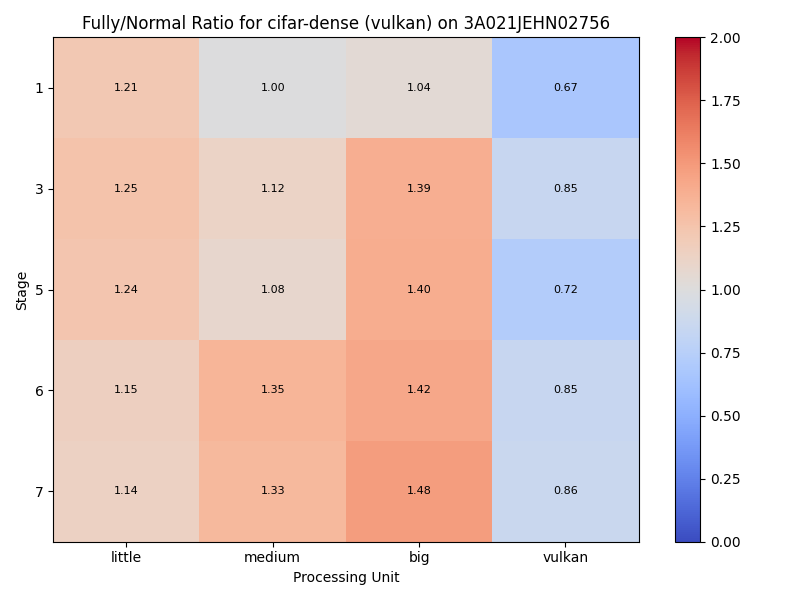
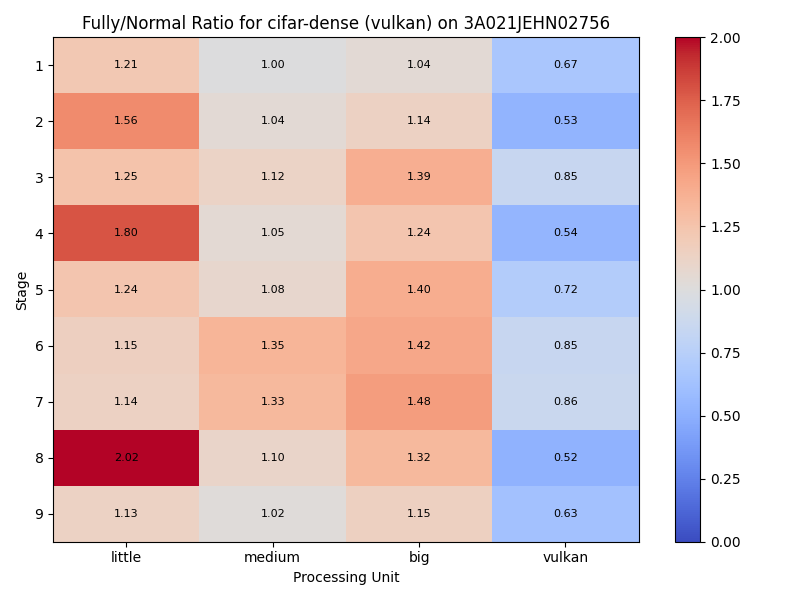
s

diff --git a/scripts/paper/figure_8_make_heatmap_all.py b/scripts/paper/figure_8_make_heatmap_all.py
@@ -1,0 +1,264 @@
+#!/usr/bin/env python3
+import os
+import argparse
+import pandas as pd
+import numpy as np
+import matplotlib.pyplot as plt
+import sys
+
+# Map backend flag to CSV column name
+BACKEND_COL_MAP = {
+    "vk": "vulkan",
+    "cu": "cuda",
+}
+
+
+def get_available_cores(df, backend_col):
+    """Get list of available cores from the DataFrame by checking for non-zero values."""
+    all_cores = ["little", "medium", "big", backend_col]
+    available_cores = []
+    for core in all_cores:
+        if core in df.columns and not df[core].eq(0).all():
+            available_cores.append(core)
+    return available_cores
+
+
+def aggregate_data(df, value_cols):
+    """
+    Group the DataFrame by 'stage' and compute mean and std for the specified columns.
+    Returns three DataFrames: mean, std, cv (coefficient of variation).
+    """
+    group = df.groupby("stage")
+    mean_df = group[value_cols].mean()
+    std_df = group[value_cols].std()
+    cv_df = std_df.divide(mean_df).fillna(0)
+    return mean_df, std_df, cv_df
+
+
+def plot_bar_chart(
+    mean_normal, std_normal, mean_fully, std_fully, device, out_folder, app, backend_col
+):
+    available_cores = mean_normal.columns.tolist()
+    stages = mean_normal.index.astype(int).tolist()
+    x = np.arange(len(stages))
+    width = 0.2
+
+    fig, axs = plt.subplots(1, 2, figsize=(14, 6), sharey=True)
+    titles = ["Normal Benchmark", "Fully Benchmark"]
+    data_pairs = [(mean_normal, std_normal), (mean_fully, std_fully)]
+
+    for ax, (mean_df, std_df), title in zip(axs, data_pairs, titles):
+        for i, pu in enumerate(available_cores):
+            pos = x - (1.5 * width) + i * width
+            ax.bar(pos, mean_df[pu], width, yerr=std_df[pu], capsize=5, label=pu)
+        ax.set_xticks(x)
+        ax.set_xticklabels(stages)
+        ax.set_xlabel("Stage")
+        ax.set_title(title)
+        ax.legend()
+
+    axs[0].set_ylabel("Performance (ms per task)")
+    plt.suptitle(f"Benchmark Performance for {app} ({backend_col}) on {device}")
+    plt.tight_layout(rect=[0, 0, 1, 0.95])
+    outpath = os.path.join(out_folder, f"{device}_{app}_{backend_col}_bar_chart.png")
+    plt.savefig(outpath)
+    plt.close()
+    print(f"Saved bar chart: {outpath}")
+
+
+def plot_heatmap(diff_df, device, out_folder, app, backend_col):
+    available_cores = diff_df.columns.tolist()
+    fig, ax = plt.subplots(figsize=(8, 6))
+    cax = ax.imshow(diff_df.values, cmap="coolwarm", aspect="auto")
+    ax.set_xticks(np.arange(len(available_cores)))
+    ax.set_xticklabels(available_cores)
+    ax.set_yticks(np.arange(len(diff_df.index)))
+    ax.set_yticklabels(diff_df.index.astype(str))
+    ax.set_xlabel("Processing Unit")
+    ax.set_ylabel("Stage")
+    ax.set_title(f"Fully - Normal Diff for {app} ({backend_col}) on {device}")
+
+    for i in range(diff_df.shape[0]):
+        for j in range(diff_df.shape[1]):
+            val = diff_df.iat[i, j]
+            ax.text(j, i, f"{val:.2f}", ha="center", va="center", fontsize=8)
+
+    fig.colorbar(cax, ax=ax)
+    plt.tight_layout()
+    outpath = os.path.join(out_folder, f"{device}_{app}_{backend_col}_heatmap.png")
+    plt.savefig(outpath)
+    plt.close()
+    print(f"Saved heatmap: {outpath}")
+
+
+def plot_ratio_heatmap(ratio_df, device, out_folder, app, backend_col):
+    available_cores = ratio_df.columns.tolist()
+    fig, ax = plt.subplots(figsize=(8, 6))
+    cax = ax.imshow(ratio_df.values, cmap="coolwarm", aspect="auto", vmin=0, vmax=2)
+    ax.set_xticks(np.arange(len(available_cores)))
+    ax.set_xticklabels(available_cores)
+    ax.set_yticks(np.arange(len(ratio_df.index)))
+    ax.set_yticklabels(ratio_df.index.astype(str))
+    ax.set_xlabel("Processing Unit")
+    ax.set_ylabel("Stage")
+    ax.set_title(f"Fully/Normal Ratio for {app} ({backend_col}) on {device}")
+
+    for i in range(ratio_df.shape[0]):
+        for j in range(ratio_df.shape[1]):
+            val = ratio_df.iat[i, j]
+            ax.text(j, i, f"{val:.2f}", ha="center", va="center", fontsize=8)
+
+    fig.colorbar(cax, ax=ax)
+    plt.tight_layout()
+    outpath = os.path.join(out_folder, f"{device}_{app}_{backend_col}_ratio.png")
+    plt.savefig(outpath)
+    plt.close()
+    print(f"Saved ratio heatmap: {outpath}")
+
+
+def process_data_pair(folder_root, device, app, backend, exclude_stages=None):
+    """Process a single device-app-backend pair and return the ratio DataFrame."""
+    backend_col = BACKEND_COL_MAP[backend]
+    device_folder = os.path.join(folder_root, device, app, backend)
+
+    if not os.path.isdir(device_folder):
+        print(f"Warning: Folder {device_folder} does not exist.")
+        return None, None
+
+    normal_csv = os.path.join(device_folder, "normal.csv")
+    fully_csv = os.path.join(device_folder, "fully.csv")
+
+    if not os.path.exists(normal_csv) or not os.path.exists(fully_csv):
+        print(f"Warning: CSV files not found in {device_folder}")
+        return None, None
+
+    try:
+        df_normal = pd.read_csv(normal_csv)
+        df_fully = pd.read_csv(fully_csv)
+
+        # Get available cores from the data
+        available_cores = get_available_cores(df_normal, backend_col)
+
+        mean_n, _, _ = aggregate_data(df_normal, available_cores)
+        mean_f, _, _ = aggregate_data(df_fully, available_cores)
+
+        if exclude_stages:
+            idx = mean_n.index.astype(int)
+            mask = ~idx.isin(exclude_stages)
+            mean_n, mean_f = mean_n[mask], mean_f[mask]
+
+        # Calculate ratio
+        ratio = mean_f.divide(mean_n)
+
+        # Generate individual ratio heatmap for records
+        plot_ratio_heatmap(ratio, device, device_folder, app, backend_col)
+
+        return ratio, f"{device}\n{app}\n{backend_col}"
+
+    except Exception as e:
+        print(f"Error processing {device}/{app}/{backend}: {str(e)}")
+        return None, None
+
+
+def plot_combined_ratio_heatmaps(ratios, titles, out_folder):
+    """Create a 2x3 grid of ratio heatmaps."""
+    fig, axs = plt.subplots(2, 3, figsize=(18, 12))
+    axs = axs.flatten()
+
+    for i, (ratio_df, title) in enumerate(zip(ratios, titles)):
+        if ratio_df is None:
+            axs[i].text(
+                0.5, 0.5, f"No data for\n{title}", ha="center", va="center", fontsize=12
+            )
+            axs[i].axis("off")
+            continue
+
+        available_cores = ratio_df.columns.tolist()
+        im = axs[i].imshow(
+            ratio_df.values, cmap="coolwarm", aspect="auto", vmin=0, vmax=2
+        )
+
+        axs[i].set_xticks(np.arange(len(available_cores)))
+        axs[i].set_xticklabels(available_cores, rotation=45, ha="right")
+        axs[i].set_yticks(np.arange(len(ratio_df.index)))
+        axs[i].set_yticklabels(ratio_df.index.astype(str))
+
+        axs[i].set_title(title)
+
+        # Add text annotations
+        for y in range(ratio_df.shape[0]):
+            for x in range(ratio_df.shape[1]):
+                val = ratio_df.iat[y, x]
+                axs[i].text(x, y, f"{val:.2f}", ha="center", va="center", fontsize=7)
+
+    # Add a colorbar to the figure
+    fig.subplots_adjust(right=0.9)
+    cbar_ax = fig.add_axes([0.92, 0.15, 0.02, 0.7])
+    cbar = fig.colorbar(im, cax=cbar_ax)
+    cbar.set_label("Fully/Normal Ratio")
+
+    plt.suptitle("Fully/Normal Execution Time Ratio Comparison", fontsize=16)
+    plt.tight_layout(rect=[0, 0, 0.9, 0.95])
+
+    outpath = os.path.join(out_folder, "combined_ratio_heatmaps.png")
+    plt.savefig(outpath, dpi=300)
+    plt.close()
+    print(f"Saved combined ratio heatmaps: {outpath}")
+
+
+def main():
+    parser = argparse.ArgumentParser(
+        description="Analyze benchmark CSVs and generate figures."
+    )
+    parser.add_argument("--log_folder", required=True, help="Root folder with CSVs")
+    parser.add_argument(
+        "--exclude_stages", default="", help="Comma-separated stages to exclude"
+    )
+    parser.add_argument("--app", help="Application name (required with --individual)")
+    parser.add_argument(
+        "--backend",
+        choices=BACKEND_COL_MAP.keys(),
+        help="Backend (required with --individual)",
+    )
+    parser.add_argument(
+        "--device", help="Device identifier (required with --individual)"
+    )
+
+    args = parser.parse_args()
+
+    folder_root = args.log_folder
+
+    # Parse excluded stages
+    exclude = []
+    if args.exclude_stages:
+        try:
+            exclude = [int(x) for x in args.exclude_stages.split(",") if x.strip()]
+            print(f"Excluding stages: {exclude}")
+        except ValueError:
+            print(f"Invalid --exclude_stages: {args.exclude_stages}")
+            sys.exit(1)
+
+    # Hardcoded 2x3 grid of device-app-backend pairs
+    pairs = [
+        ("3A021JEHN02756", "cifar-sparse", "vk"),
+        ("3A021JEHN02756", "cifar-dense", "vk"),
+        ("3A021JEHN02756", "tree", "vk"),
+        ("9b034f1b", "cifar-sparse", "vk"),
+        ("9b034f1b", "cifar-dense", "vk"),
+        ("9b034f1b", "tree", "vk"),
+    ]
+
+    ratios = []
+    titles = []
+
+    for device, app, backend in pairs:
+        ratio_df, title = process_data_pair(folder_root, device, app, backend, exclude)
+        ratios.append(ratio_df)
+        titles.append(title)
+
+    # Create combined figure
+    plot_combined_ratio_heatmaps(ratios, titles, folder_root)
+
+
+if __name__ == "__main__":
+    main()
